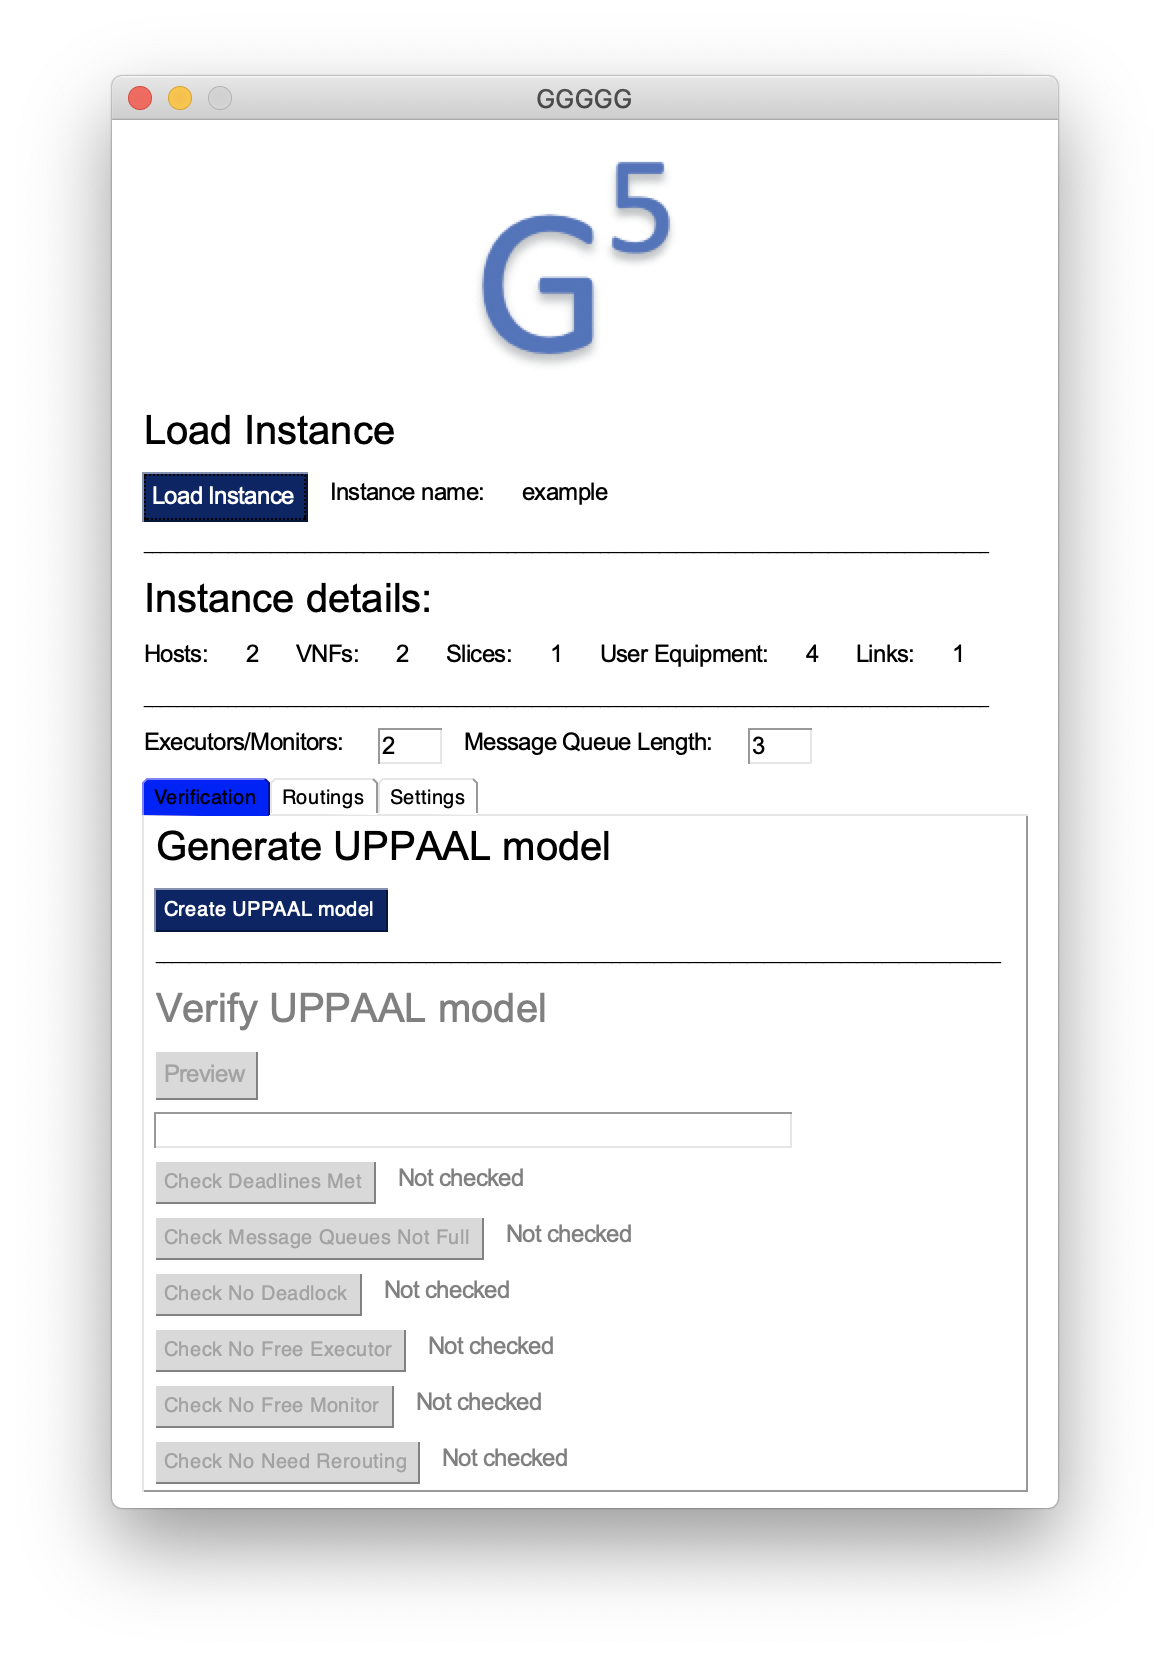
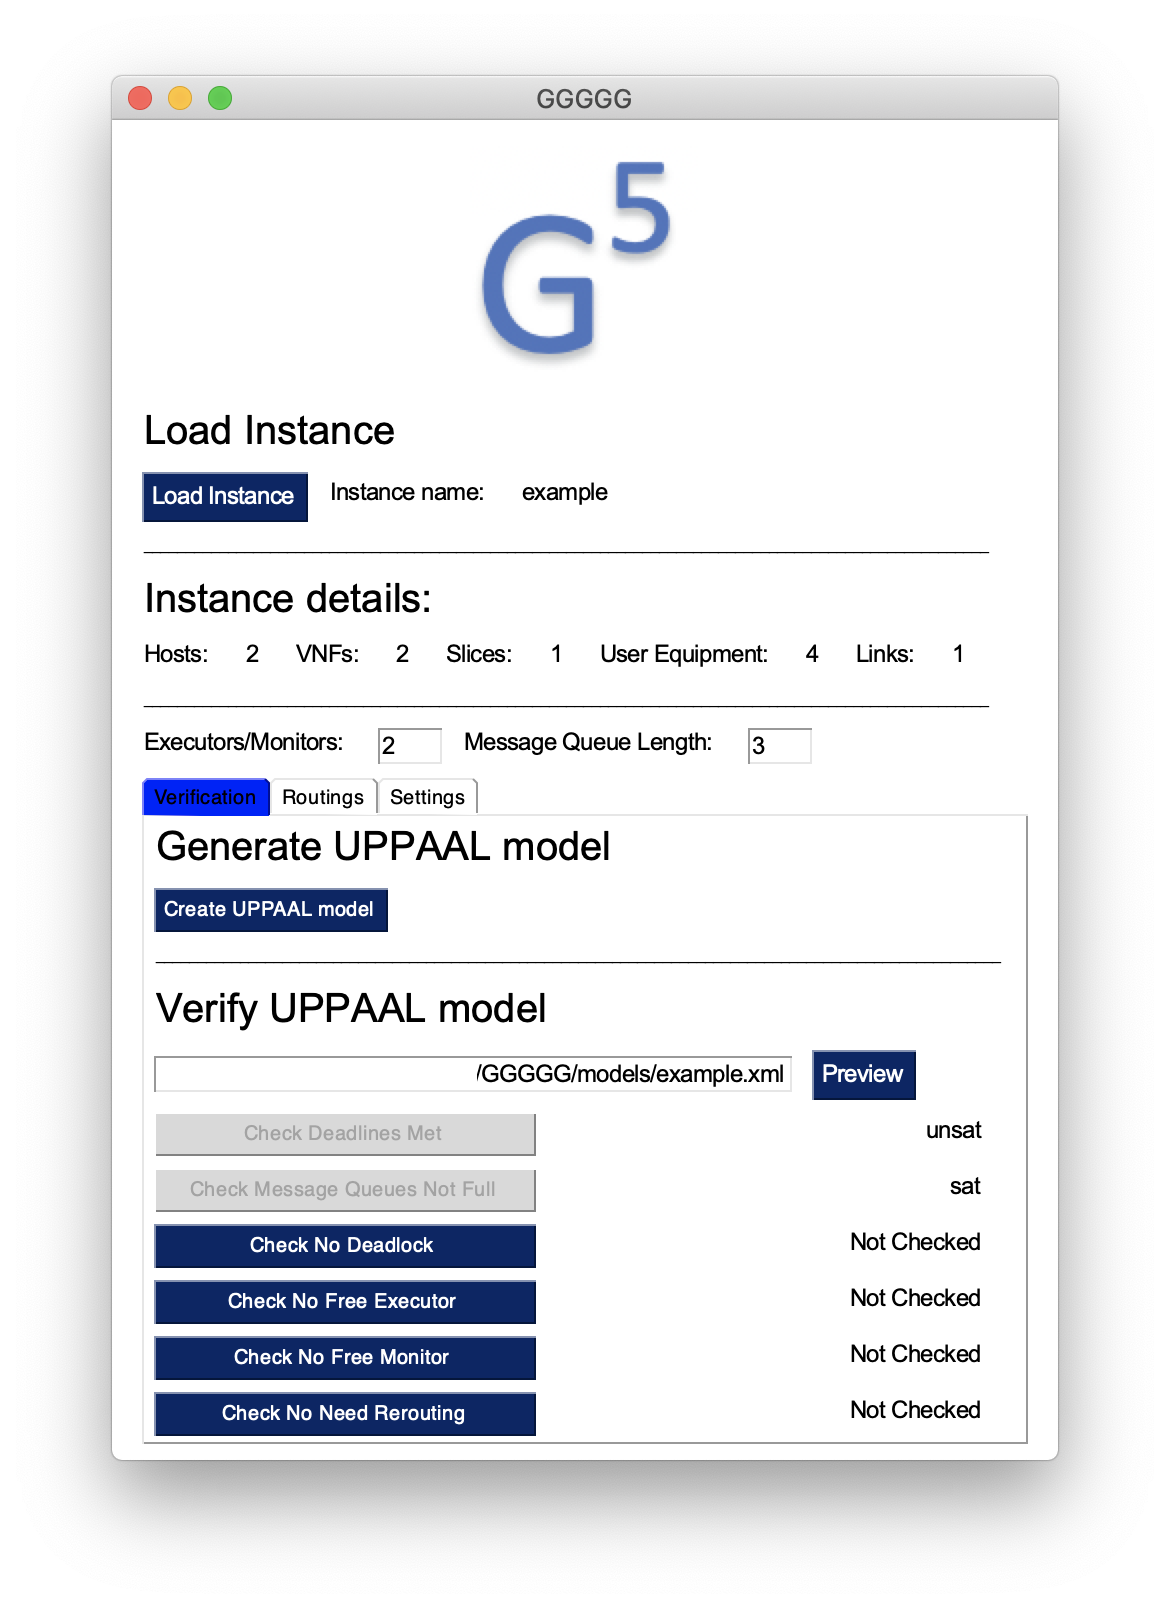
Improve layout

diff --git a/ggggg/app.py b/ggggg/app.py
@@ -129,30 +129,29 @@ main_layout = [
 
     ## VERIFY MODEL ##
     [sg.Text('Verify UPPAAL model', key='labelVerify', text_color='gray', font=header_font)],
-    [sg.Button('Preview', disabled=True, font=font)],
-    [sg.Input('', key='txtUPPAALFile', font=font, disabled=True)],
-    [sg.Button('Check Deadlines Met', key='btnDeadlines', disabled=True),
-     sg.Text("Not checked", key='labelDeadlines', text_color='gray', font=font),
+    [sg.Input('', key='txtUPPAALFile', font=font, disabled=True),sg.Button('Preview', disabled=True, font=font)],
+    [sg.Button('Check Deadlines Met', key='btnDeadlines', size=(30,1), disabled=True),
+     sg.Text("Not checked", key='labelDeadlines', text_color='gray', size=(30,1), justification='right', font=font),
      sg.Input('hmm', key="txtDeadlinesQuery", visible=False)],
 
-    [sg.Button('Check Message Queues Not Full', key='btnQueues', disabled=True),
-     sg.Text("Not checked", key='labelQueues', text_color='gray', font=font),
+    [sg.Button('Check Message Queues Not Full', key='btnQueues', size=(30,1), disabled=True),
+     sg.Text("Not checked", key='labelQueues', text_color='gray', size=(30,1), justification='right', font=font),
      sg.Input('hmm', key="txtQueuesQuery", visible=False)],
 
-    [sg.Button('Check No Deadlock', key='btnDeadlock', disabled=True),
-     sg.Text("Not checked", key='labelDeadlock', text_color='gray', font=font),
+    [sg.Button('Check No Deadlock', key='btnDeadlock', size=(30,1), disabled=True),
+     sg.Text("Not checked", key='labelDeadlock', text_color='gray', size=(30,1), justification='right', font=font),
      sg.Input('hmm', key="txtDeadlockQuery", visible=False)],
 
-    [sg.Button('Check No Free Executor', key='btnExecutor', disabled=True),
-     sg.Text("Not checked", key='labelExecutor', text_color='gray', font=font),
+    [sg.Button('Check No Free Executor', key='btnExecutor', size=(30,1), disabled=True),
+     sg.Text("Not checked", key='labelExecutor', text_color='gray', size=(30,1), justification='right', font=font),
      sg.Input('hmm', key="txtExecutorQuery", visible=False)],
 
-    [sg.Button('Check No Free Monitor', key='btnMonitor', disabled=True),
-     sg.Text("Not checked", key='labelMonitor', text_color='gray', font=font),
+    [sg.Button('Check No Free Monitor', key='btnMonitor', size=(30,1), disabled=True),
+     sg.Text("Not checked", key='labelMonitor', text_color='gray', size=(30,1), justification='right', font=font),
      sg.Input('hmm', key="txtMonitorQuery", visible=False)],
 
-    [sg.Button('Check No Need Rerouting', key='btnRerouting', disabled=True),
-     sg.Text("Not checked", key='labelRerouting', text_color='gray', font=font),
+    [sg.Button('Check No Need Rerouting', key='btnRerouting', size=(30,1), disabled=True),
+     sg.Text("Not checked", key='labelRerouting', text_color='gray', size=(30,1), justification='right', font=font),
      sg.Input('hmm', key="txtReroutingQuery", visible=False)]
 ]
 
